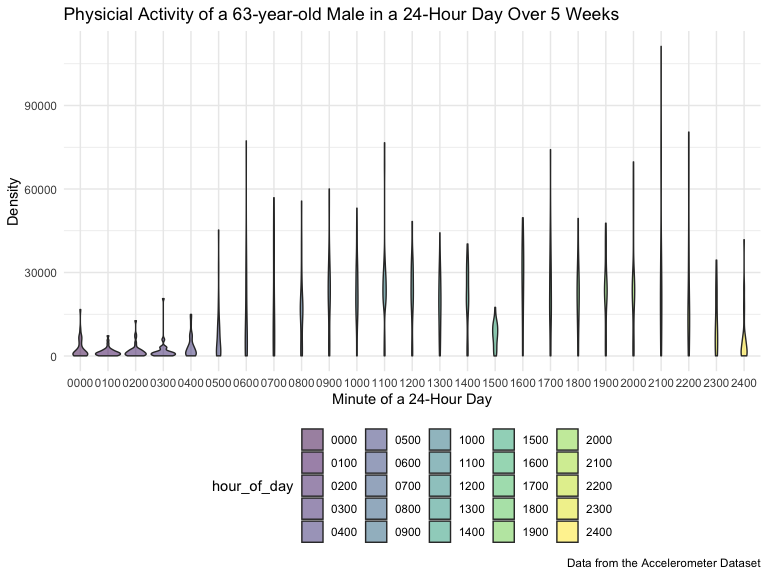
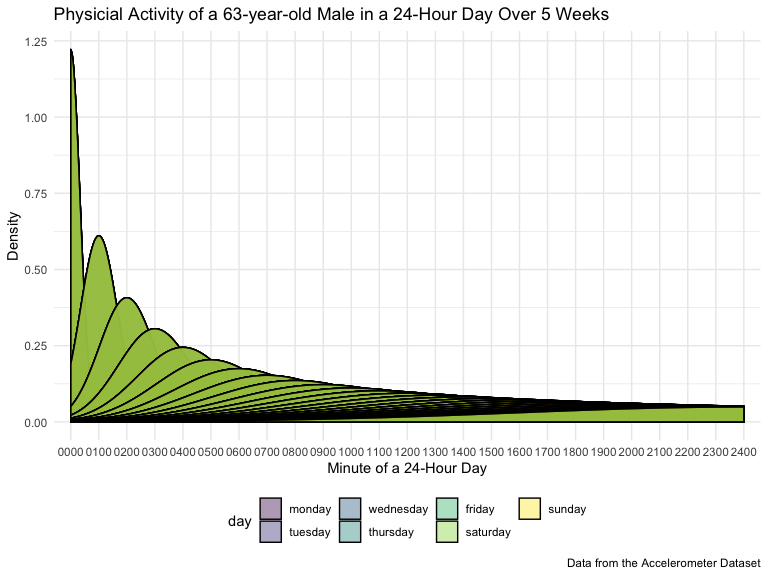
update

diff --git a/p8105_hw3_practice.md b/p8105_hw3_practice.md
@@ -2136,7 +2136,7 @@ playing_hour_accel_data =
     y = "Density",
     caption = "Data from the Accelerometer Dataset")
 
-playing_hour_accel_data =
+playing_violin_accel_data =
   hour_accel_data %>%
   pivot_longer(
     cols = starts_with("hour_"),
@@ -2156,5 +2156,24 @@ playing_hour_accel_data
 ```
 
 <img src="p8105_hw3_practice_files/figure-gfm/unnamed-chunk-18-1.png" width="90%" />
+
+``` r
+playing_facet_accel_data =
+  hour_accel_data %>%
+  pivot_longer(
+    cols = starts_with("hour_"),
+    names_to = "hour_of_day",
+    names_prefix = "hour_",
+    values_to = "activity_count"
+  ) %>%
+  ggplot(aes(x = hour_of_day, y = activity_count, group = day_id, color = day)) +
+  geom_line() +
+  facet_grid(. ~day) +
+  labs(
+    title = "Physicial Activity of a 63-year-old Male in a 24-Hour Day Over 5 Weeks",
+    x = "Minute of a 24-Hour Day",
+    y = "Density",
+    caption = "Data from the Accelerometer Dataset")
+```
 
 ### Description
